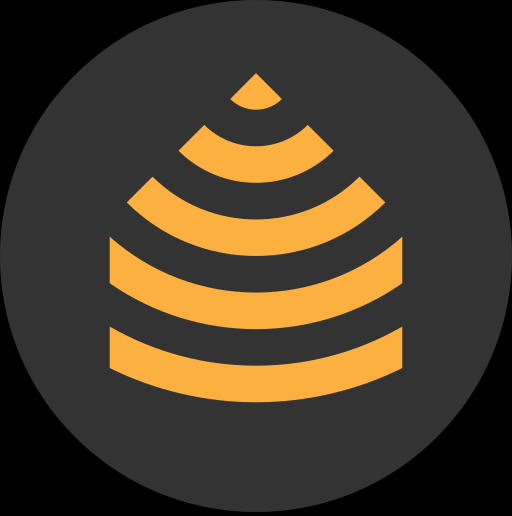
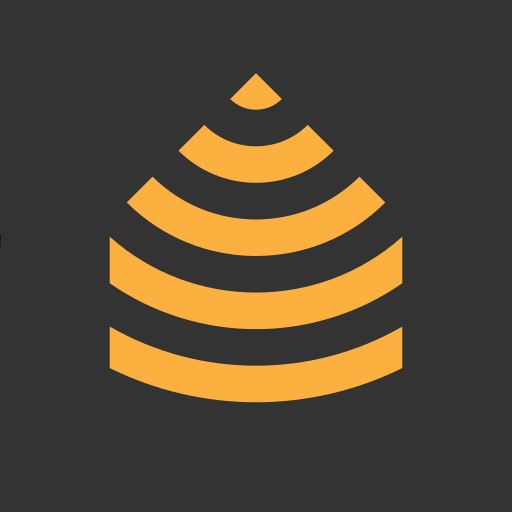
clean up

diff --git a/deploy/data/usr/share/homed-web/index.html b/deploy/data/usr/share/homed-web/index.html
@@ -4,7 +4,14 @@
         <title>HOMEd</title>
         <meta charset="utf-8">
         <meta name="viewport" content="width=device-width, initial-scale=1.0, maximum-scale=1.0">
+        <meta name="mobile-web-app-capable" content="yes">
+        <meta name="apple-mobile-web-app-capable" content="yes">
+        <meta name="application-name" content="HOMEd">
+        <meta name="apple-mobile-web-app-title" content="HOMEd">
+        <meta name="msapplication-starturl" content="/index.html">
         <link rel="icon" href="img/homed.svg" sizes="any" type="image/svg+xml">
+        <link rel="apple-touch-icon" href="img/homed-512-maskable.png" sizes="512x512">
+        <link rel="manifest" href="manifest.json">
         <link rel="stylesheet" href="css/font.css">
         <link rel="stylesheet" href="css/app.css">
         <script src="js/d3.min.js"></script>
@@ -15,15 +22,6 @@
         <script src="js/zigbee.js"></script>
         <script src="js/expose.js"></script>
         <script src="js/app.js"></script>
-        <!-- Progressive Web App -->
-        <link rel="manifest" href="manifest.json" />
-        <meta name="mobile-web-app-capable" content="yes" />
-        <meta name="apple-mobile-web-app-capable" content="yes" />
-        <meta name="application-name" content="HOMEd Smart Home" />
-        <meta name="apple-mobile-web-app-title" content="HOMEd Smart Home" />
-        <meta name="msapplication-starturl" content="/index.html" />
-        <metaname="viewport" content="width=device-width, initial-scale=1, shrink-to-fit=yes"/>
-        <link rel="manifest" href="manifest.json" />
     </head>
     <body>
         <div class="homed">
